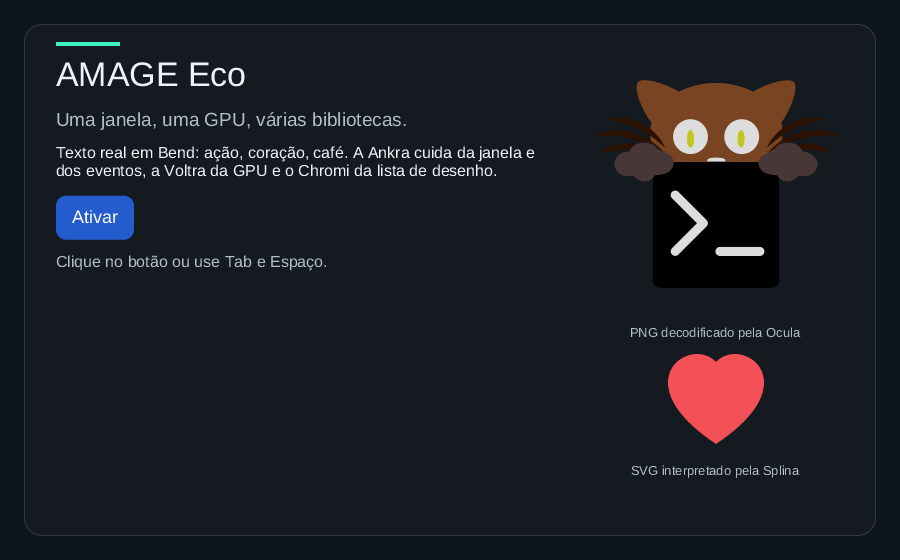
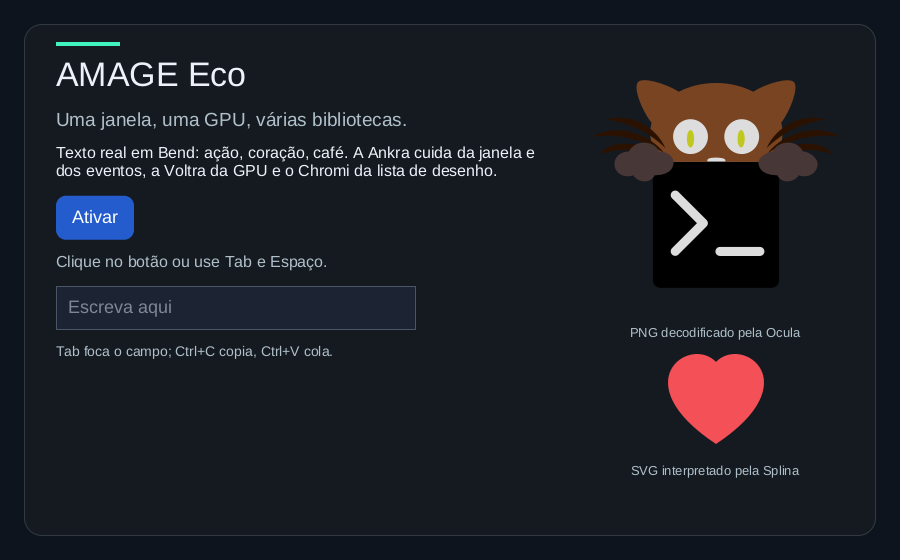
Document the eco demo's text field and its window check

Changed region(s): [[0.0622, 0.6071, 0.3733, 0.6375], [0.0622, 0.5161, 0.1867, 0.5768]]

diff --git a/README.md b/README.md
@@ -16,11 +16,12 @@ changed. Both produce the same bytes: every scene and every partial frame in
 the GPU checks compared equal to the CPU reference, pixel for pixel. The core
 and its native tests depend only on the official Bend `Base` library.
 
-![The integrated demo: text, a button, a PNG and an SVG, drawn by Chromi and presented by Voltra in an Ankra window.](docs/eco.png)
+![The integrated demo: text, a button, a text field, a PNG and an SVG, drawn by Chromi and presented by Voltra in an Ankra window.](docs/eco.png)
 
 The capture above is `examples/eco`, captured from its own window only. Text
-comes from Runika, Syllo and Dithra; the button from Mokko and Kairo; the
-layout from Tessra; the PNG is decoded by Ocula and the SVG parsed by Splina.
+comes from Runika, Syllo and Dithra; the button and the text field from Mokko
+and Kairo, typed text and the clipboard from Ankra; the layout from Tessra;
+the PNG is decoded by Ocula and the SVG parsed by Splina.
 The capture equals Chromi's CPU reference of the same frame in all 504,000
 pixels.
 
@@ -90,6 +91,21 @@ How it was verified:
   the demo (Tab, two activations, resizes to 1100x700, 640x760 and 900x560)
   and the 5000-label grid (Tab, two activations) captured at every step equal
   the previous full-redraw binaries pixel for pixel.
+- **Editable text field in the demo** (Mokko's `field.bend`, ids 12 and 13:
+  the field and its note). On the real window, with keys sent by XTest while
+  the window had focus (br-abnt2 keymap) and the pointer by events sent to
+  the window alone: Tab reached the field; "Olá, ação!" typed with dead keys;
+  a held Backspace repeated; Shift+Home selected; Ctrl+C then `wl-paste`
+  printed the text; `wl-copy café` then Ctrl+V inserted it (the paste asked
+  the owner and the answer arrived in a later batch); "€" was refused whole
+  with the error border and "Character U+20AC cannot be displayed"; a click
+  placed the caret and a drag selected; Space in the field typed a space and
+  never activated the button, while Space on the button still did. Each
+  keystroke was a partial frame of 15,840 pixels (the field's 360x44 box),
+  plus the note's box when the message changed; key to presented frame
+  0.77 ms median (p90 0.94, 17 keys). Unfocused idle: 0 frames and 0
+  main-thread wakeups in 5 s. The first frame equals the CPU reference at
+  900x560 (0 differing pixels).
 - The shape example (`examples/shapes.bend`, official window) still builds;
   `tests/ankra.bend` passes its 2 companion checks.
 - **7 text cache checks** (`examples/eco/text_tests.bend`): the demo's text
@@ -174,8 +190,11 @@ bend examples/eco/main.bend -o build/eco              # about 85 s, 3.8 GB peak
 ./build/eco --threads 2 --gpu off                      # run from Chromi/
 ```
 
-Click the button, use Tab and Space or Enter, resize the window, close it
-normally. The program prints one line per redraw and per input batch. See
+Click the button, use Tab and Space or Enter, Tab again to the text field and
+type (dead keys and AltGr work; Ctrl+C/X/V and Shift+Insert use the
+clipboard), resize the window, close it normally. The program prints one line
+per redraw (with the damaged area) and per input batch (with the field's text
+after it). See
 [examples/README.md](examples/README.md) for the other examples, the CPU
 variant and the benchmarks.
 

diff --git a/examples/README.md b/examples/README.md
@@ -2,7 +2,7 @@
 
 | Path | What it shows |
 | --- | --- |
-| [eco/main.bend](eco/main.bend) | The integrated demo, GPU-presented: Ankra's native window and events, Kairo state, Tessra layout (side by side when wide, stacked when narrow), Runika/Syllo/Dithra text, a Mokko button, a PNG decoded by Ocula, an SVG parsed by Splina; Chromi keeps each frame as retained parts (`frame.bend`) and Voltra redraws only what changed, on its canvas. Redraws only when something visible changed; a click lays out only the status line again. |
+| [eco/main.bend](eco/main.bend) | The integrated demo, GPU-presented: Ankra's native window and events, Kairo state, Tessra layout (side by side when wide, stacked when narrow), Runika/Syllo/Dithra text, a Mokko button, a Mokko text field (Kairo editing, Ankra text input and CLIPBOARD; text the font cannot show is refused with a message), a PNG decoded by Ocula, an SVG parsed by Splina; Chromi keeps each frame as retained parts (`frame.bend`) and Voltra redraws only what changed, on its canvas. Redraws only when something visible changed; a click lays out only the status line again, a keystroke redraws only the field (and its note when the message changes). |
 | [eco/cpu.bend](eco/cpu.bend) | The same scene on the previous path: CPU raster of the draw list, official window, `XPutImage`, fixed 900x560. For comparison. |
 | [eco/reference.bend](eco/reference.bend) | Writes the demo's first frame painted by the CPU reference, at any size (`reference W H`), as `build/eco-reference-WxH.ppm`. |
 | [eco/bench_gpu.bend](eco/bench_gpu.bend), [eco/bench_cpu.bend](eco/bench_cpu.bend) | The scene redrawn N times on each path; see [docs/bench.md](../docs/bench.md). |
@@ -25,8 +25,8 @@ bend examples/eco/main.bend -o build/eco     # one compilation unit: about 85 s,
 ```
 
 The demo prints one line per input batch and per redraw. Resize the window
-(the layout follows), click the button or use Tab with Space or Enter, then
-close it normally: it reports the frames presented and `teardown: 0 native
+(the layout follows), click the button or use Tab with Space or Enter, Tab to
+the text field and type, copy and paste, then close it normally: it reports the frames presented and `teardown: 0 native
 objects left`.
 
 `shapes.bend` and `tests/ankra.bend` use only Ankra's official-runtime
